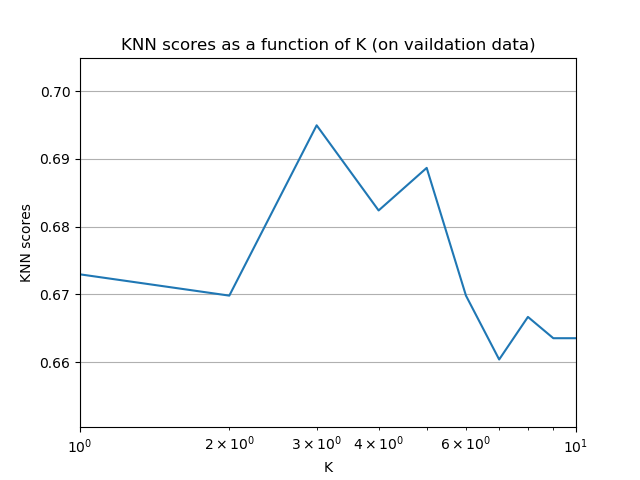
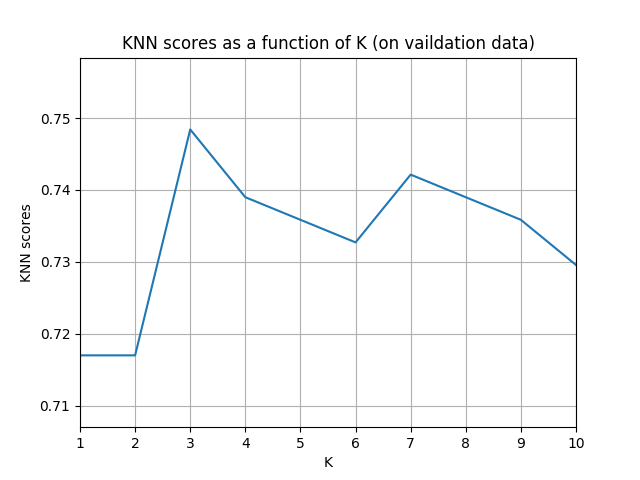
Add train times test

diff --git a/imagePreProcessing.py b/imagePreProcessing.py
@@ -79,11 +79,12 @@ def dataset_from_ck(inputFolderCKData):
     print("CK+ dataset ready!...")
     return (facial_landmarks_data, train_lbls)
 
-def save_plt_scores(params, nameP, scores, nameScores, title):
+def save_plt_scores(params, nameP, scores, nameScores, title, log_scale=True):
     fig = plt.figure()
     plt.grid(True)
     #axes = plt.gca()
-    plt.semilogx()
+    if log_scale:
+        plt.semilogx()
     plt.plot(params, scores)
     plt.axis([min(params) , max(params) , min(scores) - 0.01, max(scores) + 0.01])
     plt.ylabel(nameScores)
@@ -388,7 +389,7 @@ def find_best_params(inputFolderCKData):
     image_num = len(facial_landmarks_lbls)
     #reduce dimensions
     print("Dim reduction...")
-    pca = dimension_reduction_pca(features_df, 500)
+    pca = dimension_reduction_pca(features_df, 1600)
     features_red = pca.transform(features_df)
     #dividing to train and validation
     randIndxs = list(range(image_num))
@@ -398,7 +399,7 @@ def find_best_params(inputFolderCKData):
     validation_data = features_red[randIndxs[image_num//2:]]
     validation_lbls = facial_landmarks_lbls[randIndxs[image_num//2:]]
     #training ml algos
-    Cs = [10**i for i in range(-5,6)]
+    Cs = [10**i for i in range(-10,11)]
     Ks = list(range(1,11))
     #train C:
     print("svm & logreg C algos training...")
@@ -414,8 +415,37 @@ def find_best_params(inputFolderCKData):
         scoresKNN.append(m_knn.score(validation_data,validation_lbls))
     save_plt_scores(Cs,"C",scoresSVM, "SVM scores","SVM scores as a function of C (on vaildation data)")
     save_plt_scores(Cs,"C",scoresLogReg, "Logistic Regression scores","Logistic Regression scores as a function of C (on vaildation data)")
-    save_plt_scores(Ks,"K",scoresKNN, "KNN scores","KNN scores as a function of K (on vaildation data)")
+    save_plt_scores(Ks,"K",scoresKNN, "KNN scores","KNN scores as a function of K (on vaildation data)", False)
 
+def test_train_times(inputFolderCKData):
+    timesSVM = []
+    timesLogReg = []
+    timesKNN = []
+    print("Start testing...")
+    (facial_landmarks_data, facial_landmarks_lbls) = dataset_from_ck(inputFolderCKData)
+    facial_landmarks_lbls = np.array(facial_landmarks_lbls)
+    features_df = extract_features_forall(facial_landmarks_data)
+    Ds = [i for i in range(100, 1600, 100)]
+    print("Measuring times...")
+    for d in Ds:
+        pca = dimension_reduction_pca(features_df, d)
+        features_red = pca.transform(features_df)
+        t1 = time.time()
+        svm_classifier(features_red,facial_landmarks_lbls)
+        t2 = time.time()
+        log_reg_classifier(features_red,facial_landmarks_lbls)
+        t3 = time.time()
+        knn_classifier(features_red,facial_landmarks_lbls)
+        t4 = time.time()
+        timesSVM.append(t2-t1)
+        timesLogReg.append(t3-t2)
+        timesKNN.append(t4-t3)
+    # timesSVM = np.array(timesSVM) / len(features_red)
+    # timesLogReg = np.array(timesLogReg) / len(features_red)
+    # timesKNN = np.array(timesKNN) / len(features_red)
+    save_plt_scores(Ds,"d",timesSVM, "SVM train time","SVM train time as a function of d", False)
+    save_plt_scores(Ds,"d",timesLogReg, "Logistic Regression train time","Logistic Regression train time as a function of d", False)
+    save_plt_scores(Ds,"d",timesKNN, "KNN train time","KNN train time as a function of d", False)
 
 #######################################################################################
 ##############            RUN                                              ############
@@ -423,4 +453,4 @@ def find_best_params(inputFolderCKData):
     
 #test_images_flow(r"C:\Users\DELL1\Documents\studies\FinalProject\facial-landmarks\facial-landmarks\images")
 #test_ml_algos_on_ck(r"C:\Users\DELL1\Documents\studies\FinalProject\Datatsets\CK+\sorted_set")
-#find_best_params(r"C:\Users\DELL1\Documents\studies\FinalProject\Datatsets\CK+\sorted_set")
+find_best_params(r"C:\Santos\TAU\Final\Datasets\CK+\sorted_set - CK+")
